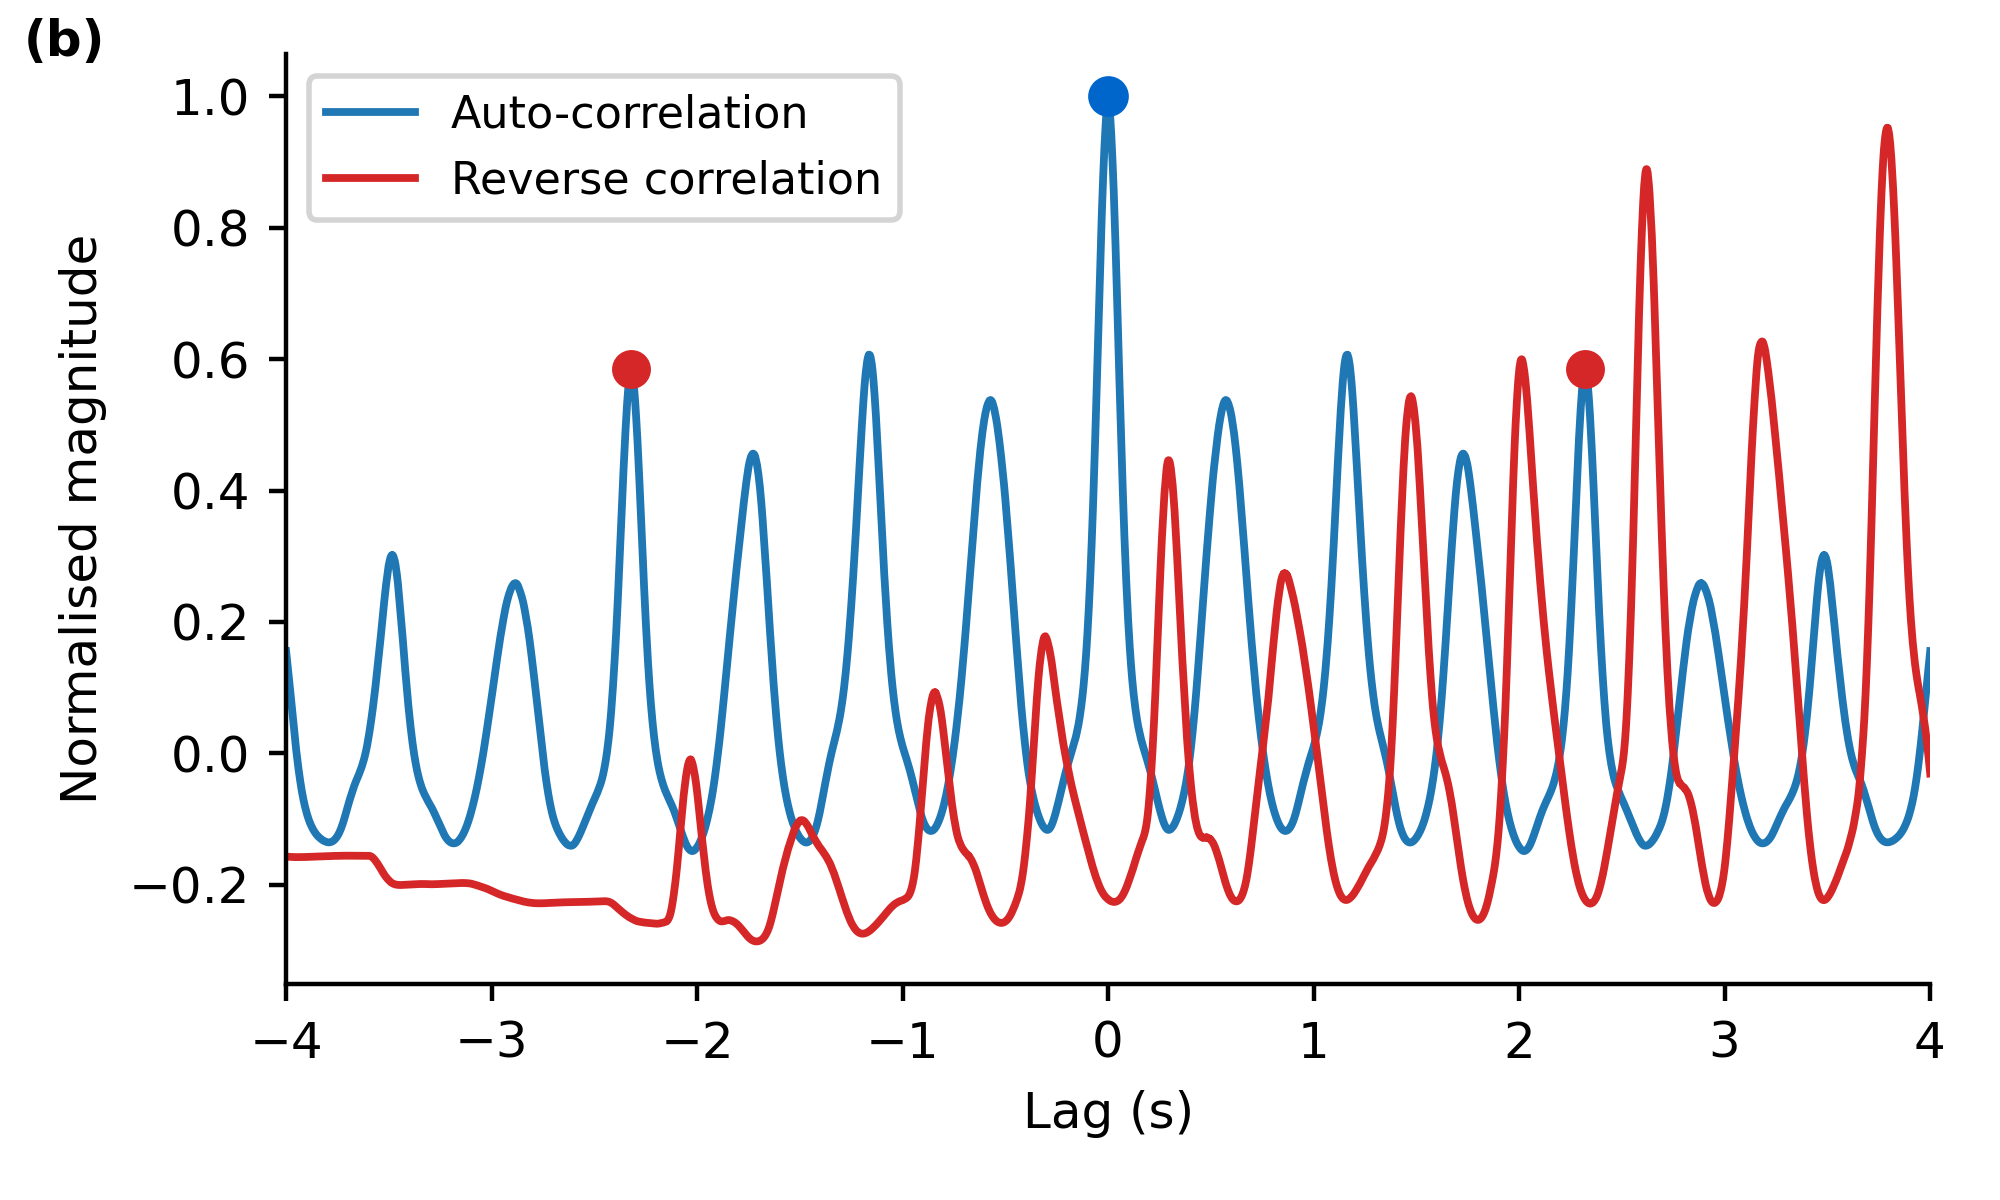
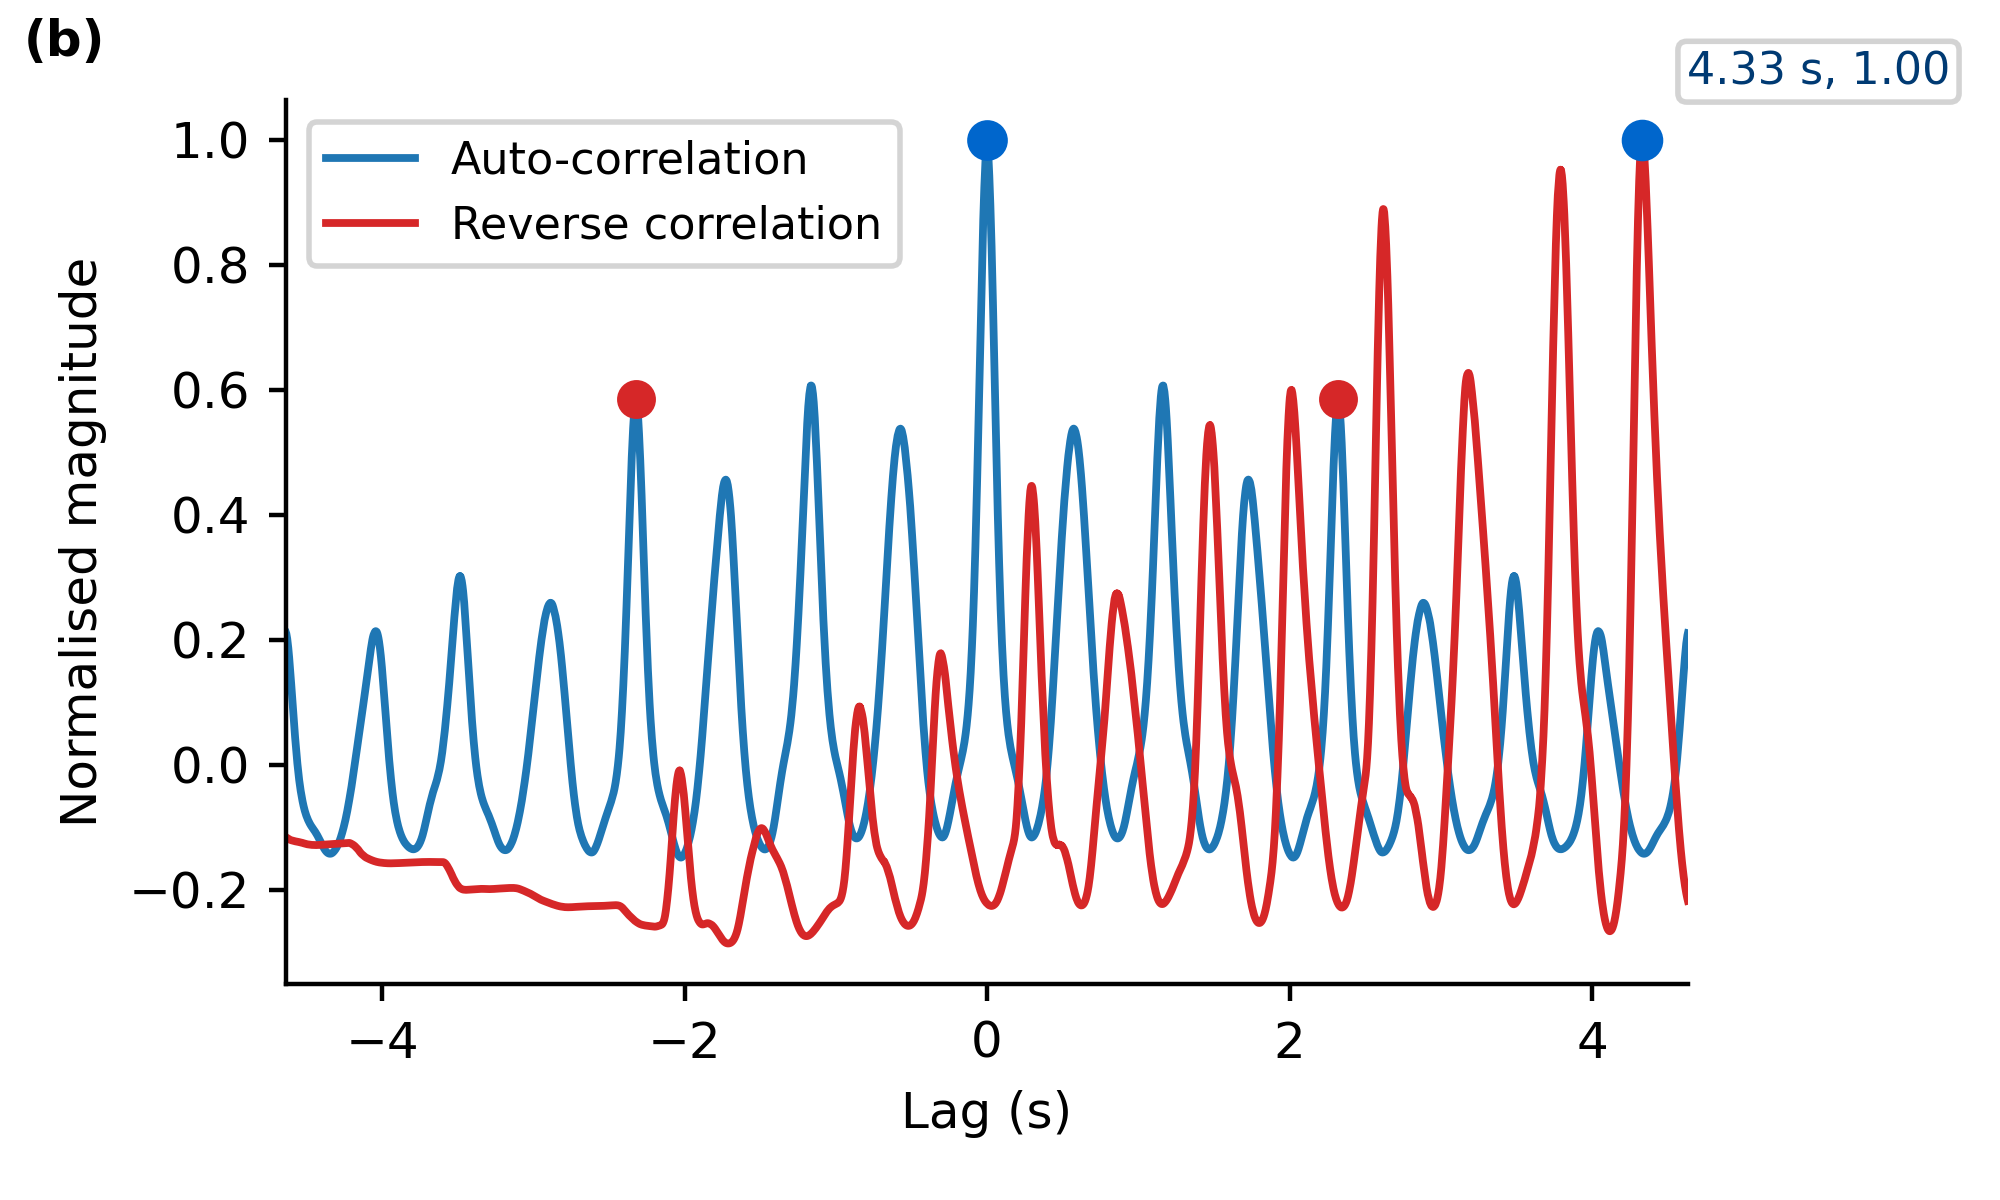
fix(publication): extend x-limits to include reverse peak; annotate lag+value

diff --git a/publication_code/figure02_scan_segmentation.py b/publication_code/figure02_scan_segmentation.py
@@ -302,7 +302,18 @@ def render_correlation_figure(
 
     ax.set_xlabel("Lag (s)")
     ax.set_ylabel("Normalised magnitude")
-    ax.set_xlim(-4.0, 4.0)
+    # Choose x-limits to encompass all marked peaks (center/side and reverse)
+    peak_positions: List[float] = []
+    if auto_peak_indices:
+        peak_positions += [float(lags_s[i]) for i in auto_peak_indices if 0 <= i < len(lags_s)]
+    if reverse_peak_index is not None and 0 <= reverse_peak_index < len(lags_s):
+        peak_positions.append(float(lags_s[reverse_peak_index]))
+    if peak_positions:
+        max_abs = max(abs(p) for p in peak_positions)
+        target = min(max_abs + 0.3, 6.0)  # small padding; cap width at ±6 s
+        ax.set_xlim(-target, target)
+    else:
+        ax.set_xlim(-4.0, 4.0)
     # Dynamic y-limits to avoid truncation on either series
     y_min = float(min(np.min(auto_corr), np.min(reverse_corr)))
     y_max = float(max(np.max(auto_corr), np.max(reverse_corr)))
